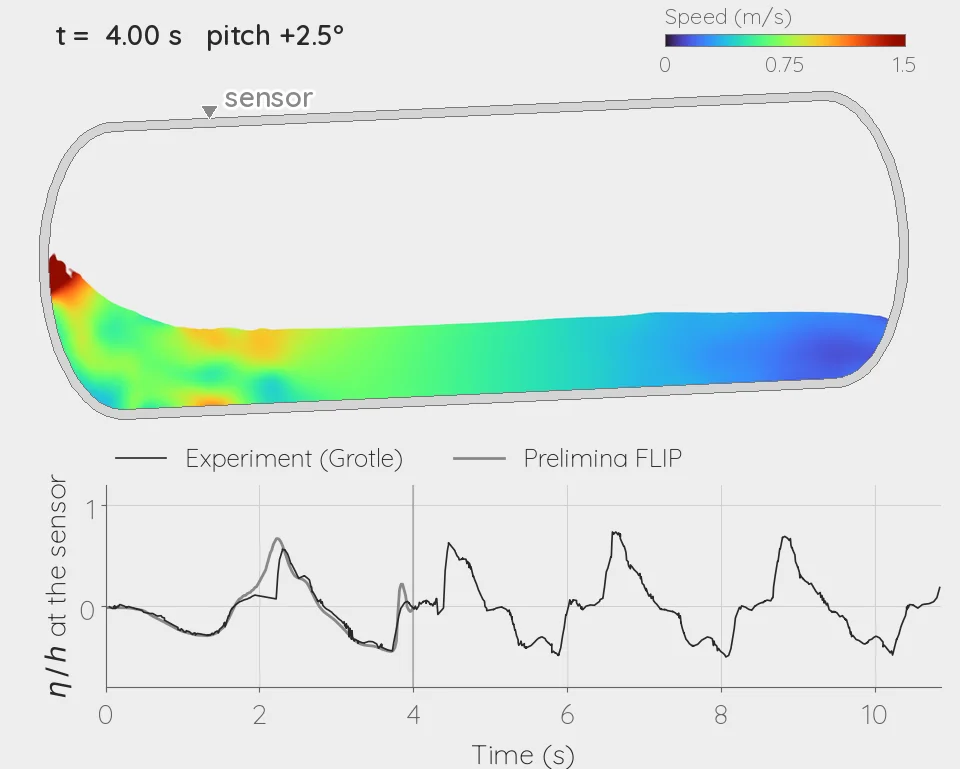
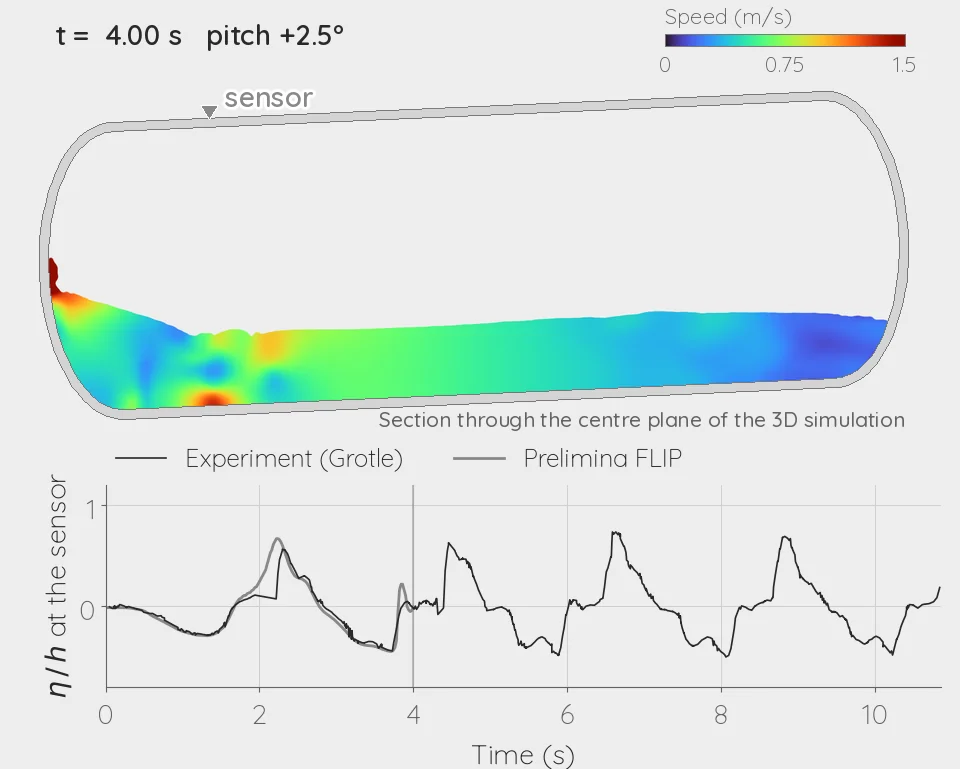
Applications: Grotle clip as a centre-plane section of the 3D run; shorter title for 07

diff --git a/src/content/content.ts b/src/content/content.ts
@@ -378,7 +378,7 @@ export const showcases: readonly Application[] = [
   {
     slug: 'rolling-tank-impact',
     number: '07',
-    title: 'Check sloshing impacts in a rolling tank against a benchmark.',
+    title: 'Check pressure in a sloshing tank.',
     category: 'Tanks & prescribed motion',
     type: 'tank',
     availability: 'in_development',
@@ -532,9 +532,9 @@ export const showcases: readonly Application[] = [
     media: {
       kind: 'image',
       src: '/assets/showcases/lng-tank-sloshing.webp',
-      alt: 'Side view of a horizontal cylindrical tank with rounded ends, a quarter full of water, pitching three degrees each way. A wave runs back and forth along the tank and climbs the end walls; each time it passes under the sensor on the roof near the left end, the water there rises and falls. Below it, the simulated elevation at the sensor draws in step over the measured trace.',
+      alt: 'A section through the centre plane of a horizontal cylindrical tank with rounded ends, a quarter full of water, pitching three degrees each way. A wave runs back and forth along the tank and climbs the end walls; each time it passes under the sensor on the roof near the left end, the water there rises and falls. Below it, the simulated elevation at the sensor draws in step over the measured trace.',
       caption:
-        'A repeat Prelimina run with the record settings, side view coloured by speed (0–1.5 m/s); isolated spray particles are not drawn. The elevation below is read from this run’s particles under the sensor, so it differs slightly from the chart; brief spikes where a sheet of water crosses the sensor run off the top. Development build 8efc8505.',
+        'A section through the centre plane of the 3D simulation (a 40 mm thick slice), from a repeat Prelimina run with the record settings, coloured by speed (0–1.5 m/s); isolated spray particles are not drawn. The elevation below is read from this run’s particles under the sensor, so it differs slightly from the chart; brief spikes where a sheet of water crosses the sensor run off the top. Development build 8efc8505.',
       aspectRatio: '960 / 769',
       fit: 'contain',
     },
